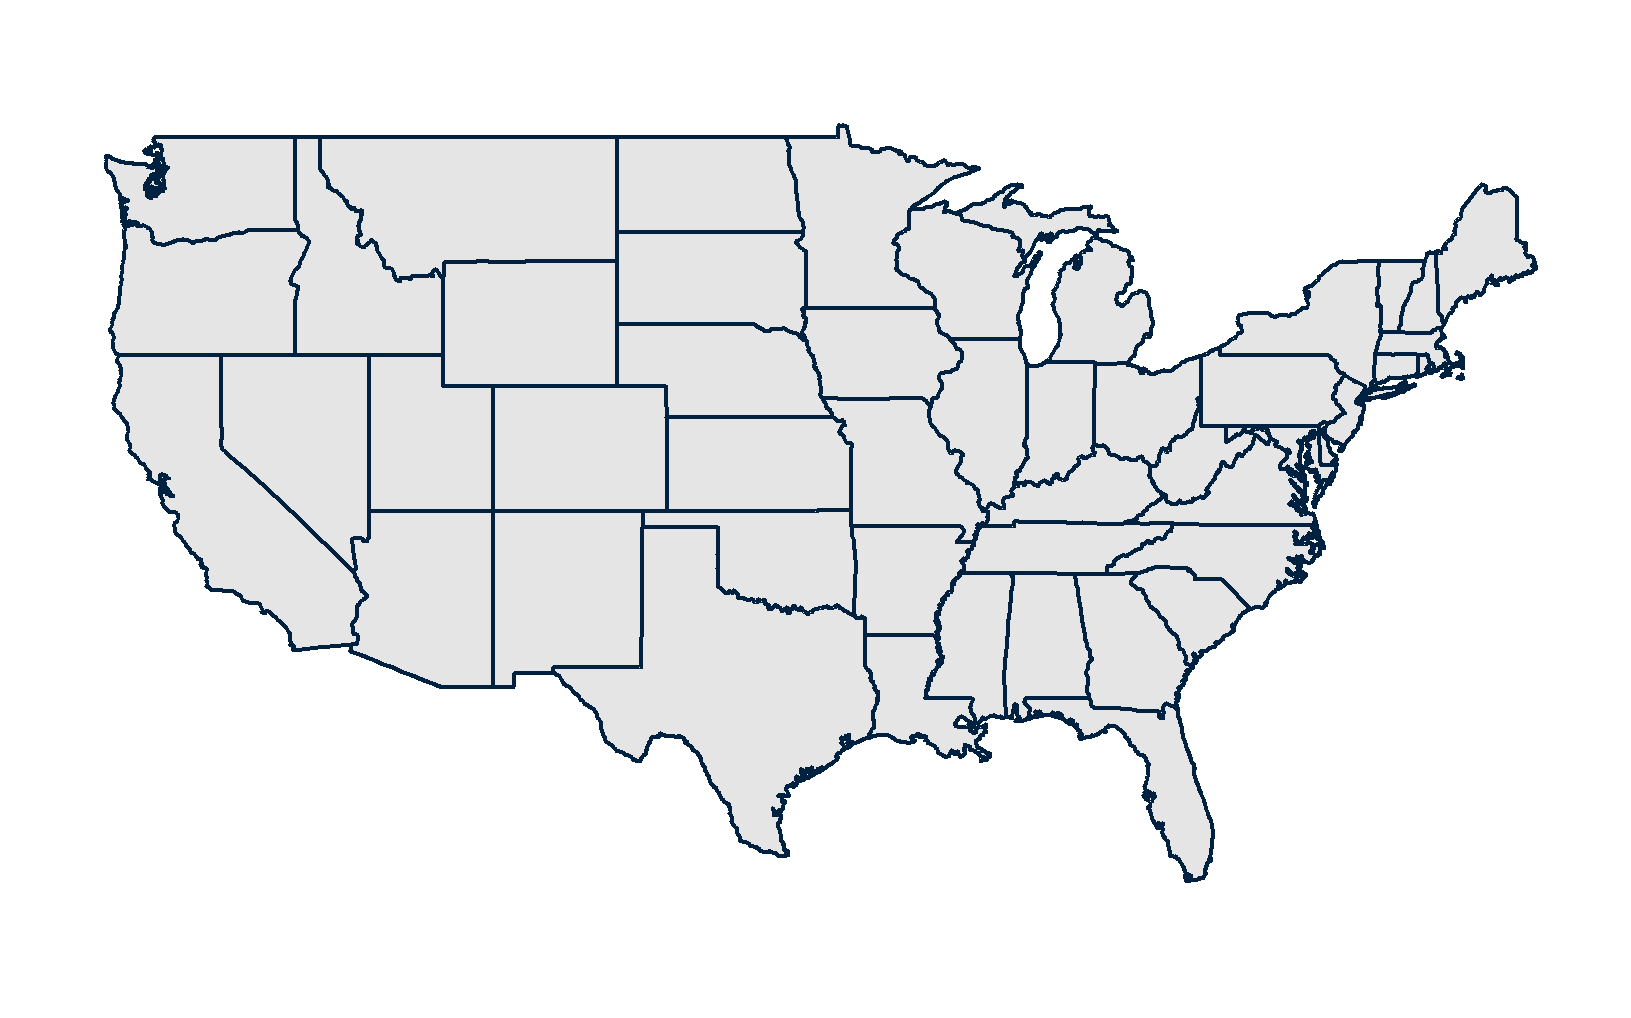
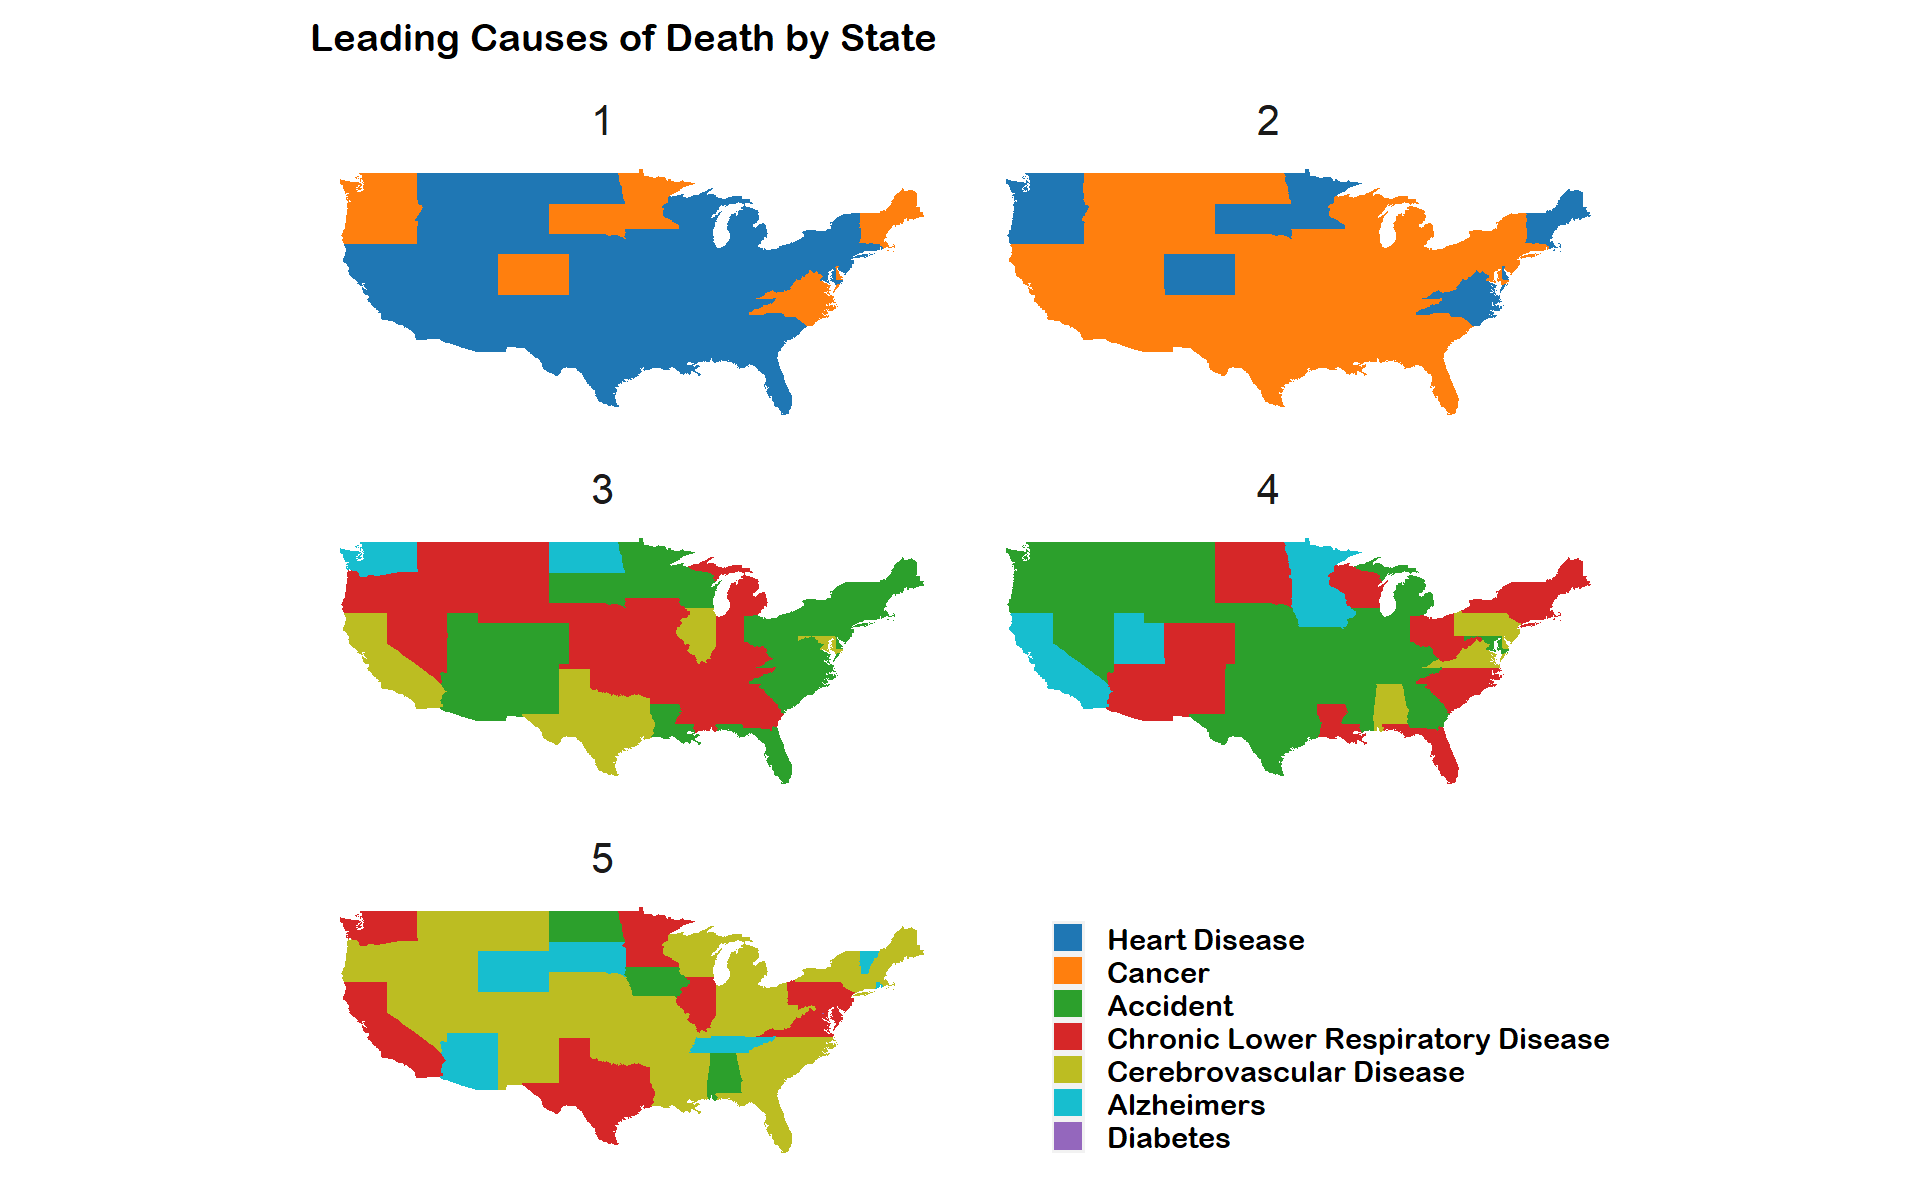
Final script and image.

diff --git a/README.md b/README.md
@@ -1,0 +1,85 @@
+Causes of Death
+===============
+
+How do the leading causes of death change by State?
+
+The Center for Disease Control and Prevention (CDC) tracks and publishes
+the leading causes of death, percent of total deaths, and death rates
+(<https://www.cdc.gov/nchs/nvss/mortality/lcwk5_hr.htm>).
+
+From this data I have collected the top-5 leading causes of death for
+each State:
+
+    ## # A tibble: 6 x 6
+    ##   State   `Cause 1`   `Cause 2`  `Cause 3`       `Cause 4`       `Cause 5`      
+    ##   <chr>   <chr>       <chr>      <chr>           <chr>           <chr>          
+    ## 1 Alabama Heart Dise~ Cancer     Chronic Lower ~ Cerebrovascula~ Accident       
+    ## 2 Alaska  Cancer      Heart Dis~ Accident        Chronic Lower ~ Suicide        
+    ## 3 Arizona Heart Dise~ Cancer     Accident        Chronic Lower ~ Alzheimers     
+    ## 4 Arkans~ Heart Dise~ Cancer     Chronic Lower ~ Accident        Cerebrovascula~
+    ## 5 Califo~ Heart Dise~ Cancer     Cerebrovascula~ Alzheimers      Chronic Lower ~
+    ## 6 Colora~ Cancer      Heart Dis~ Accident        Chronic Lower ~ Cerebrovascula~
+
+We want to present this data in a concise way. One way to achieve this
+is using a choropleth (a thematic map displaying statistical
+information).
+
+There are many different packages capable of creating choropleths in R.
+
+In this case we want to display the mainland States of the USA. The
+"map"-function from the "maps" package is sufficient for our purposes.
+
+    States <- st_as_sf(maps::map("state", plot = FALSE, fill = TRUE)) %>%
+      mutate(ID = str_to_title(ID)) %>%
+      as_tibble() %>%
+      rename(State = ID)
+
+We can now join the "Causes of Death"-tibble to our simple-features map
+multipolygons:
+
+    States %<>% left_join(Causes_of_Death)
+
+Finally, we can use ggplot2 to create our choropleth:
+
+    ggplot(data=Causes_of_Death) +
+      geom_sf(aes(geometry=geom,
+                  fill=Cause),
+              lwd=0.5,
+              color=NA) +
+      scale_fill_manual(values = c("#1F77B4",
+                                   "#FF7F0E",
+                                   "#2CA02C",
+                                   "#D62728",
+                                   "#BCBD22",
+                                   "#17BECF",
+                                   "#9467BD"),
+        breaks = c("Heart Disease",
+                   "Cancer",
+                   "Accident",
+                   "Chronic Lower Respiratory Disease",
+                   "Cerebrovascular Disease",
+                   "Alzheimers",
+                   "Diabetes")) +
+      facet_wrap(~ Rank, nrow=3) +
+      ggtitle("Leading Causes of Death by State") +
+      theme(strip.text = element_text(size=10,
+                                      hjust=0.45),
+            strip.background = element_rect(size=1,
+                                            fill=NA),
+            axis.ticks = element_blank(),
+            axis.text = element_blank(),
+            legend.text = element_text(color = "black",
+                                       family="Arial Rounded MT Bold",
+                                       size=7),
+            legend.title = element_blank(),
+            legend.key.size = unit(0.28,"cm"),
+            legend.justification=c(1,0), 
+            legend.position=c(1.01, -0.01),  
+            legend.background = element_blank(),
+            panel.grid = element_blank(),
+            panel.background = element_rect(fill="white"),
+            plot.background = element_rect(fill="white"),
+            plot.title = element_text(family="Arial Rounded MT Bold",
+                                      size=9))
+
+<img src="Cause of Death by State.png"/>
